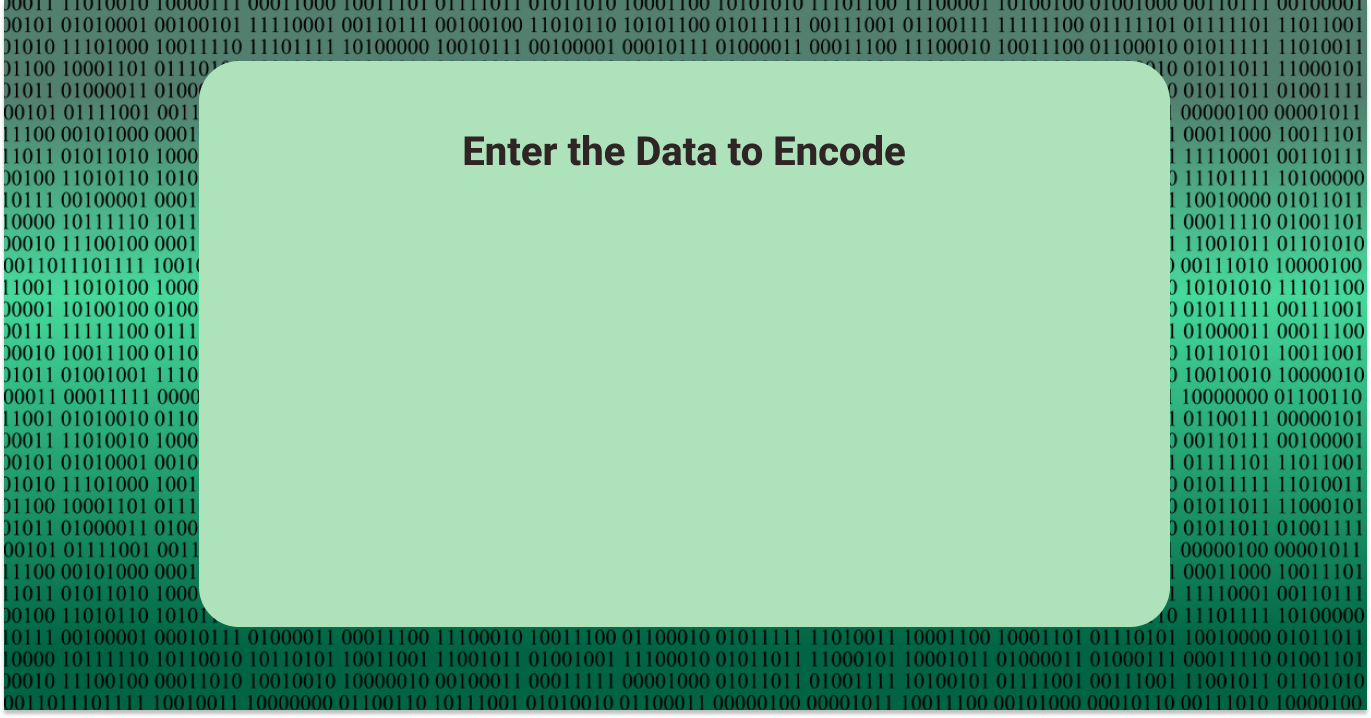
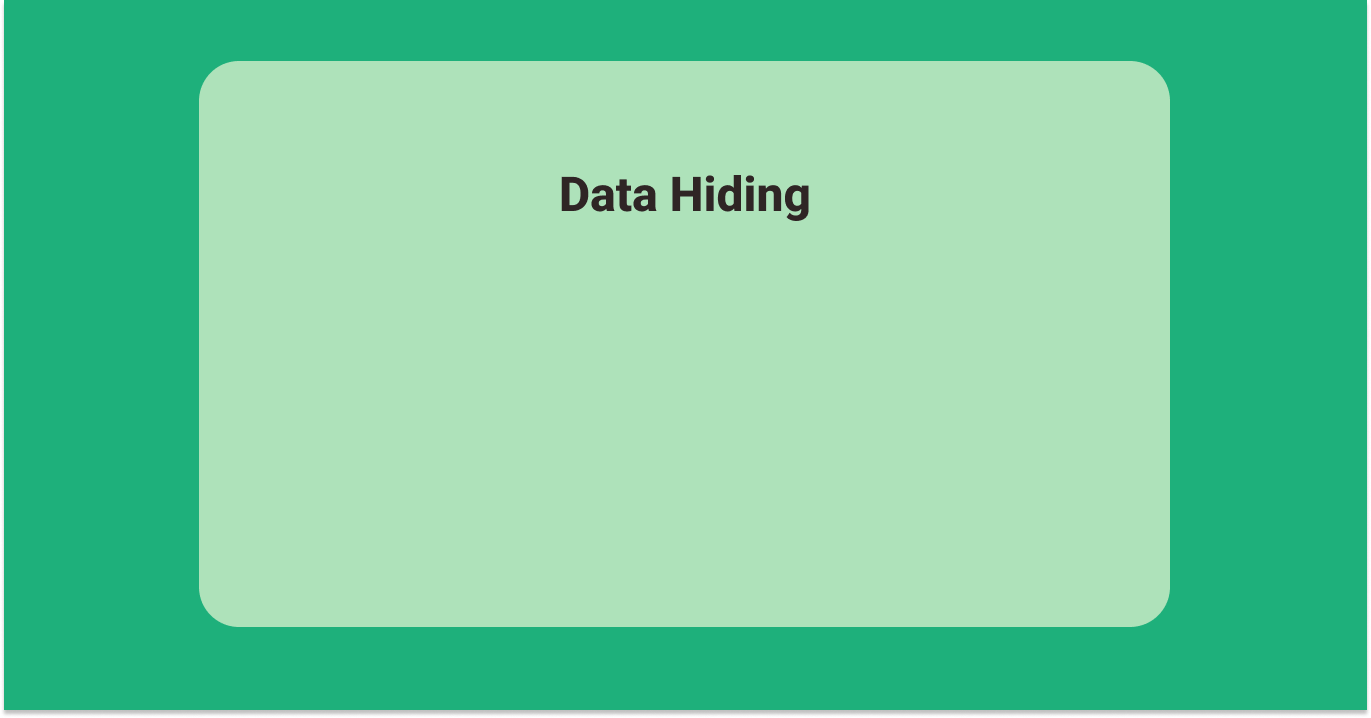
Project Done

diff --git a/main.py b/main.py
@@ -63,6 +63,7 @@ def encode():
     new_img_name = filedialog.asksaveasfilename(title="Save Image As", filetypes=(("PNG files", "*.png"), ("JPEG files", "*.jpg"),("All files", "*.*")))
     newimg.save(new_img_name)
     #entry_encode_data.delete(0, tk.END)  # Clear the encoded text entry
+    
 
 
 def decode():
@@ -88,11 +89,11 @@ def decode():
     data = bytearray(data)
     file.write(data)
 
-decode()
-'''root = tk.Tk()
+
+root = tk.Tk()
 root.title("Steganography")
 root.geometry("1360x710")
-root.config(bg="#F0F0F0")
+root.config(bg="#1EB07B")
 
 bg_image = PhotoImage(file="./templates/background.png")
 background_label = Label(root, image=bg_image)
@@ -100,16 +101,12 @@ background_label.place(x=0, y=0, relwidth=1, relheight=1)
 
 encodebtn = PhotoImage(file="./templates/encode.png")
 button_encode = tk.Button(image=encodebtn, command=encode, bd=0, bg="#AEE2BA", activebackground="#AEE2BA")
-button_encode.place(x=533, y=300)
+button_encode.place(x=534, y=288)
 
 decodebtn = PhotoImage(file="./templates/decode.png")
 button_decode = tk.Button(image=decodebtn, command=decode,bd=0, bg="#AEE2BA", activebackground="#AEE2BA")
 button_decode.place(x=535, y=406)
 
-decoded_label = tk.Label(root, text="", bg="#AEE2BA",font=("Helvetica", 14))
-decoded_label.place(x=469, y=512)
 
-entry_encode_data = tk.Entry(root,font=("Helvetica", 12))
-entry_encode_data.place(x=390, y=204, width=620, height=40)
 
-root.mainloop()'''
+root.mainloop()
